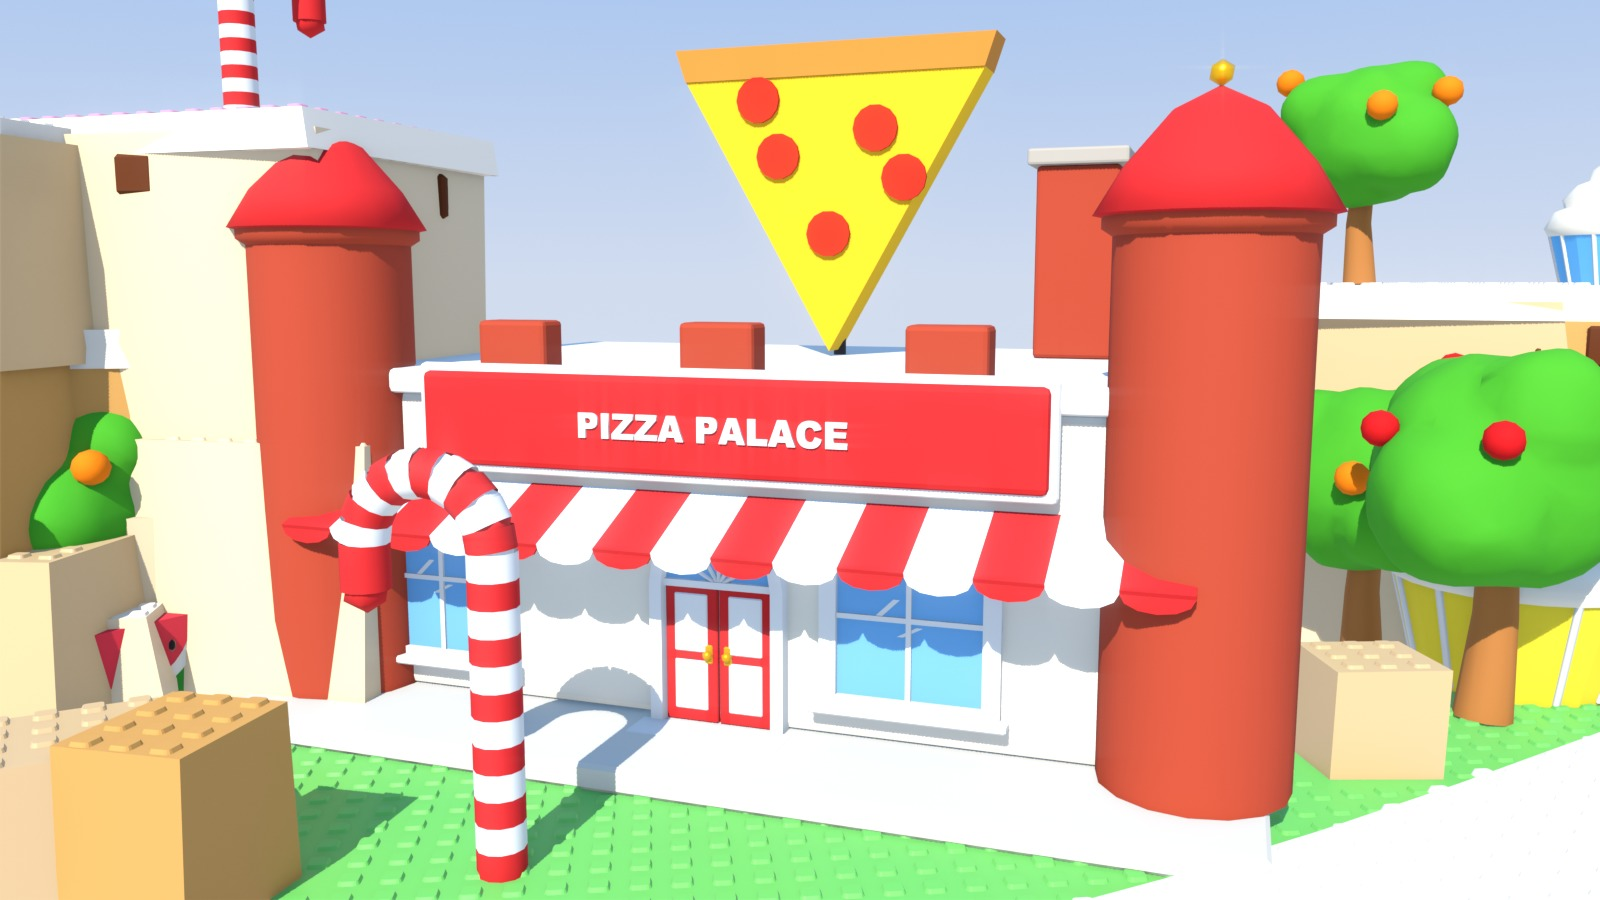
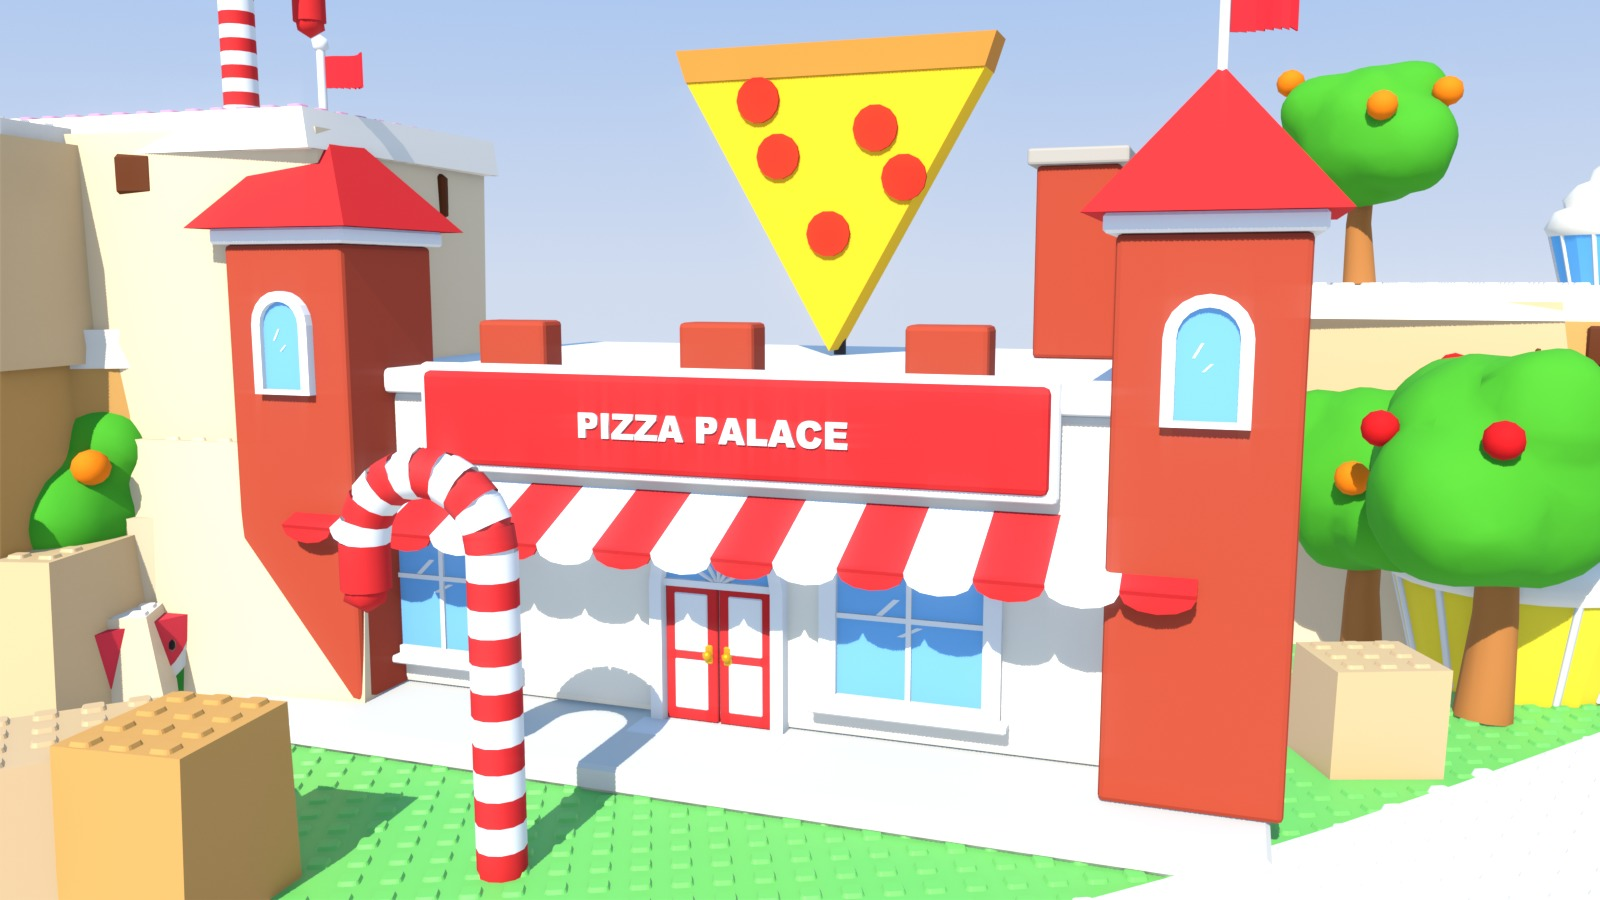
Pizza Palace: square corner turrets with pointed tile roofs instead of round domed towers (crnuch: they read rude)
Square brick turrets with a white band, a pointed red pyramid roof, a pennant and an arched window, same footprint.
check_models food: 0 floating, 0 z-fighting. Food Court re-rendered, before / afters refreshed. CLAUDE.md (MODEL
OVERHAUL): no silhouettes that read rude - a tall round shaft never ends in a rounded / flared cap with a ball.

diff --git a/tools/blender/overhaul/island_food_court.py b/tools/blender/overhaul/island_food_court.py
@@ -236,11 +236,14 @@ def pizza_palace(F, slice_sign=True):
         for k in range(9):
             if k % 2 == 0:
                 rbox(n + "_Brick", "brick_red", (-14 + k * 3.5, -7.2, top + 0.8), (2.4, 1.2, 1.6), 0.15)
-        for sx in (-1, 1):
-            lathe(n + "_Brick", "brick_red", [(2.6, 0.8), (2.6, top + 4, True), (2.9, top + 4.2), (2.9, top + 4.5, True), (0.0, top + 4.5)], segs=16, c=(sx * 14, -7.5, 0))
-            lathe(n + "_Roof", "red", [(2.7, top + 4.45), (3.15, top + 4.55), (2.4, top + 5.8), (1.2, top + 7.2), (0.0, top + 7.8)], segs=16,
-                  c=(sx * 14, -7.5, 0))
-            sphere(n + "_Gold", "gold", (sx * 14, -7.5, top + 8.1), 0.35, sub=1)
+        for sx in (-1, 1):  # square corner turrets: brick, a white band, a pointed tile roof, a pennant (round shafts with domed caps read rude - crnuch)
+            cx, cy, hw = sx * 14, -7.5, 2.3
+            rbox(n + "_Brick", "brick_red", (cx, cy, (0.8 + top + 4.0) / 2), (2 * hw, 2 * hw, top + 3.2), 0.15)
+            box(n + "_Trim", "white", (cx, cy, top + 4.25), (2 * hw + 0.6, 2 * hw + 0.6, 0.5), bevel=0.08)
+            cyl(n + "_Roof", "red", (cx, cy, top + 4.5), (hw + 0.8) * math.sqrt(2), 3.8, segs=4, spin=45, r_top=0.0, smooth=False)
+            B.flag(n, cx, cy, top + 7.9, 2.4, look="flag_red", w=1.6, fh=1.0, seed=sx)
+            with at(cx, cy - hw, 0):
+                B.window(n + "Win", 0, top - 0.6, 1.5, 2.8, arch=True, frame="white", sill=None, keystone=None, mullions=False)
         if slice_sign:  # a slice of pizza standing on the roof
             with at(0, 4, top):
                 prism(n + "_Crust", "crust", [(-5.8, 10.4), (5.8, 10.4), (6.2, 11.6), (-6.2, 11.6)], 1.8)

diff --git a/CLAUDE.md b/CLAUDE.md
@@ -168,7 +168,9 @@ grass, orange paths with white dashed edges, wood crates, blocky palms. Look at 
   **Nothing floats, nothing pokes through (crnuch 2026-10-25: "detached or overlapping a lot of pieces"):** every piece of
   a model must touch the rest of it or the ground - run `tools/blender/overhaul/check_models.py` (0 floating pieces is
   the bar; add new models to its list; `-- zfight` lists coplanar two-colour faces that will flicker - 0 since 2026-10-25, keep it there).
-  Review renders of every model: `audit_views.py`. Audit + fix order: docs/VISUAL_AUDIT_2026-10-25.md. Characters / statues made of overlapping shapes are FUSED per colour
+  Review renders of every model: `audit_views.py`.
+  **No silhouettes that read rude** (kids' game; crnuch 2026-10-25: the Pizza Palace's round towers): a tall round shaft
+  never ends in a rounded / flared cap with a ball - give towers square bodies or pointed roofs, and check the four views. Audit + fix order: docs/VISUAL_AUDIT_2026-10-25.md. Characters / statues made of overlapping shapes are FUSED per colour
   (`ohkit.fuse`: a voxel union, no seams), with eyes / noses / collars half-sunk into the surface.
 - **Builds (until the stud rollout lands):** Parts are Plastic with `TopSurface = Studs` (Ground, Plaza, Trees,
   IslandDecor, EggPads — Smooth tops or textured MeshParts look out of place); that flat texture is now only the

diff --git a/SESSION_LOG.md b/SESSION_LOG.md
@@ -304,6 +304,9 @@ Claim big work here before starting (who · what · since), push the claim, remo
   all six islands: 0 round pieces >= 0.8 across in egg regions. N10 Ocean Shore driftwood keeps 25 studs off the portal
   approach, dock and pad (nearest log 72). Pet Park / Brainrot / Food Court / Ocean Shore / Space Base / hub re-rendered;
   their `*_before_after.jpg` (TODAY v2 / NEW) recomposed.
+- **crnuch's call (review): the Pizza Palace's round corner towers read rude** (tall round shafts, flared domed caps, a
+  ball on top). Now square brick turrets with a white band, a pointed red tile roof, a pennant and an arched window, same
+  footprint; rule added to CLAUDE.md (MODEL OVERHAUL). Food Court re-rendered.
 - Tools: `audit_views.py` takes `<group>.<name>` to render single models; `check_models.py` builds the three new portals.
 - Open for install: the travel cards (`art/travel/`) still show today's v2 islands - re-render them from the overhaul
   islands when they go in. Not done here (owners): M2 / M3 hub wiring (mr.robe), M4 plaza centre (crnuch + mr.robe), M5 /
